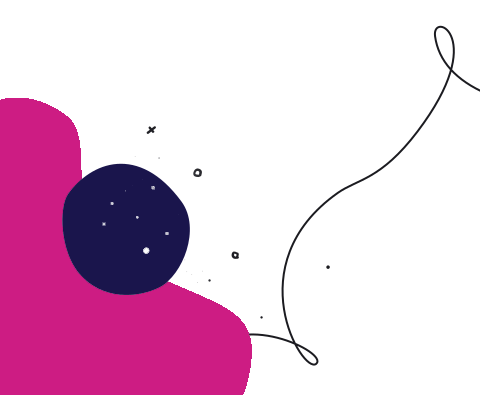
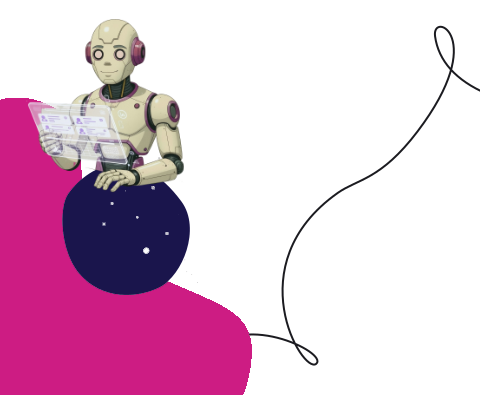
feat: improve login page

Changed region(s): [[0.0625, 0.0304, 0.4375, 0.4861], [0.4688, 0.638, 0.5, 0.6684]]

diff --git a/web-app/src/containers/SplashScreen.tsx b/web-app/src/containers/SplashScreen.tsx
@@ -39,7 +39,7 @@ export function SplashScreen({ onSuccess }: SplashScreenProps) {
 	return (
 		<div className="fixed inset-0 z-50 flex bg-white animate-in fade-in duration-500">
 			{/* Left side - Branding */}
-			<div className="hidden md:flex md:w-2/5 lg:w-1/3 bg-[#F4F5F6] flex-col justify-between p-8 relative overflow-hidden">
+			<div className="hidden md:flex md:w-2/5 lg:w-1/3 bg-[#F4F5F6] flex-col pt-12 px-8 pb-8 relative overflow-hidden">
 				{/* Decorative art */}
 				<img
 					src="/salesbox-art.png"
@@ -49,29 +49,22 @@ export function SplashScreen({ onSuccess }: SplashScreenProps) {
 
 				{/* Logo and branding */}
 				<div className="relative z-10">
-					<div className="flex items-center gap-3 mb-6">
+					<div className="flex items-center gap-3 mb-4">
 						<img src="/salesbox-logo.png" alt="SalesboxAI" style={{ width: '200px', height: '23px' }} />
 					</div>
 
-					<p className="text-[#151047]/80 text-base max-w-sm leading-relaxed">
+					<p className="text-[#151047]/80 text-sm max-w-sm leading-relaxed mb-8">
 						Welcome to SalesboxAI - a Gen AI powered Sales & Marketing platform to drive Pipeline and Revenue Growth
 					</p>
-				</div>
 
-				{/* Main heading with robot */}
-				<div className="relative z-10 space-y-3 mb-8">
-					<div className="flex items-start gap-4">
-						<img src="/images/splash.png" alt="SalesGenie" className="w-20 h-20 object-contain" />
-						<div>
-							<h1 className="text-3xl font-bold leading-tight">
-								<span className="text-[#E755A6]">SalesGenie</span>
-							</h1>
-							<p className="text-xl font-semibold text-[#151047]">Your AI Meeting-Maker</p>
-							<p className="text-sm text-[#151047]/70 mt-2">
-								The AI assistant that helps Sales Reps book more meetings, faster.
-							</p>
-						</div>
-					</div>
+					{/* Main heading */}
+					<h1 className="text-3xl font-bold leading-tight">
+						<span className="text-[#E755A6]">SalesGenie</span>
+					</h1>
+					<p className="text-base font-semibold text-[#151047]">Your AI Meeting-Maker</p>
+					<p className="text-sm text-[#151047]/70 mt-2">
+						The AI assistant that helps Sales Reps book more meetings, faster.
+					</p>
 				</div>
 			</div>
 
